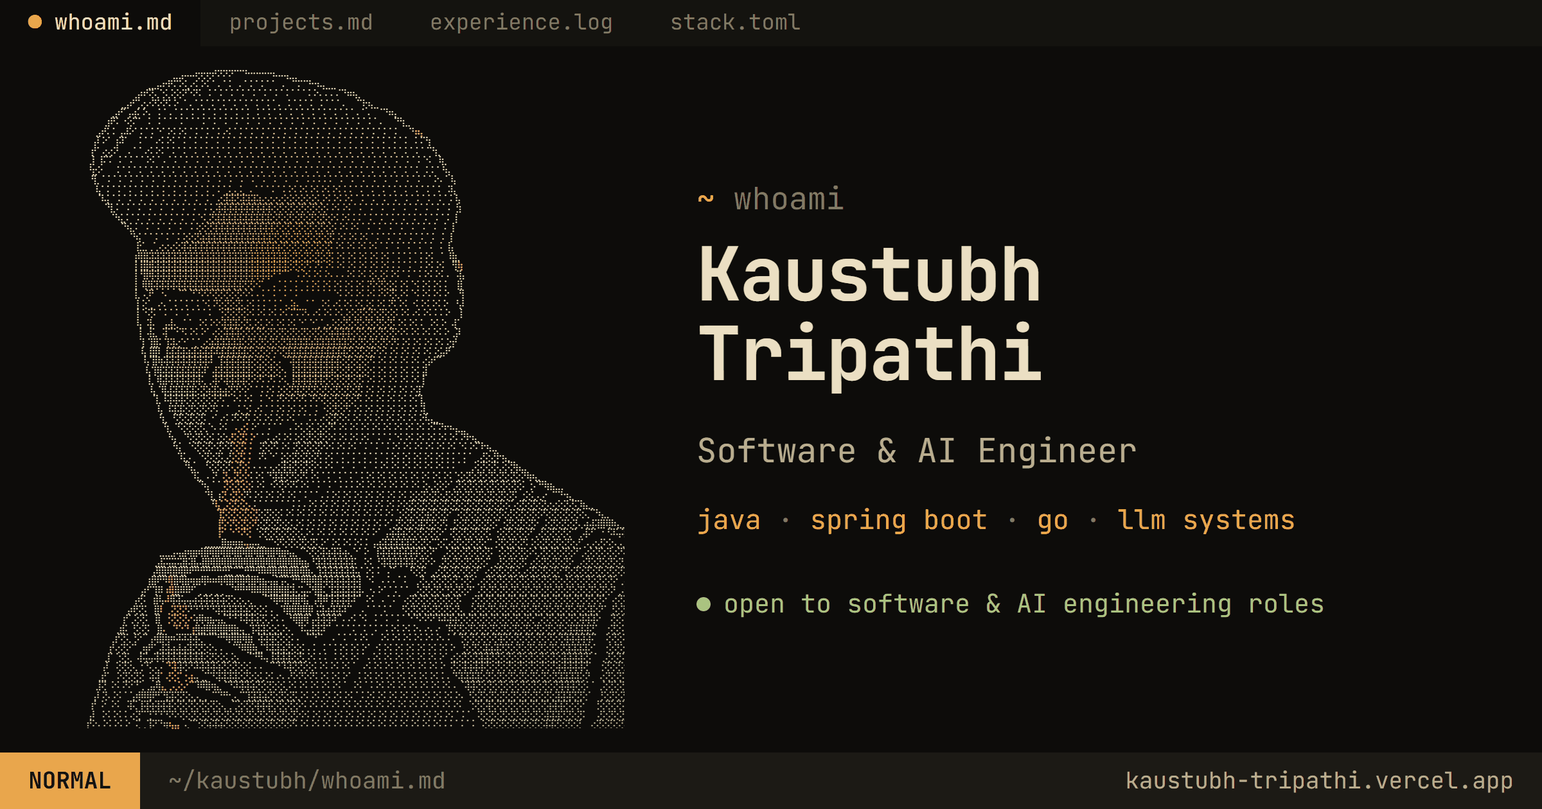
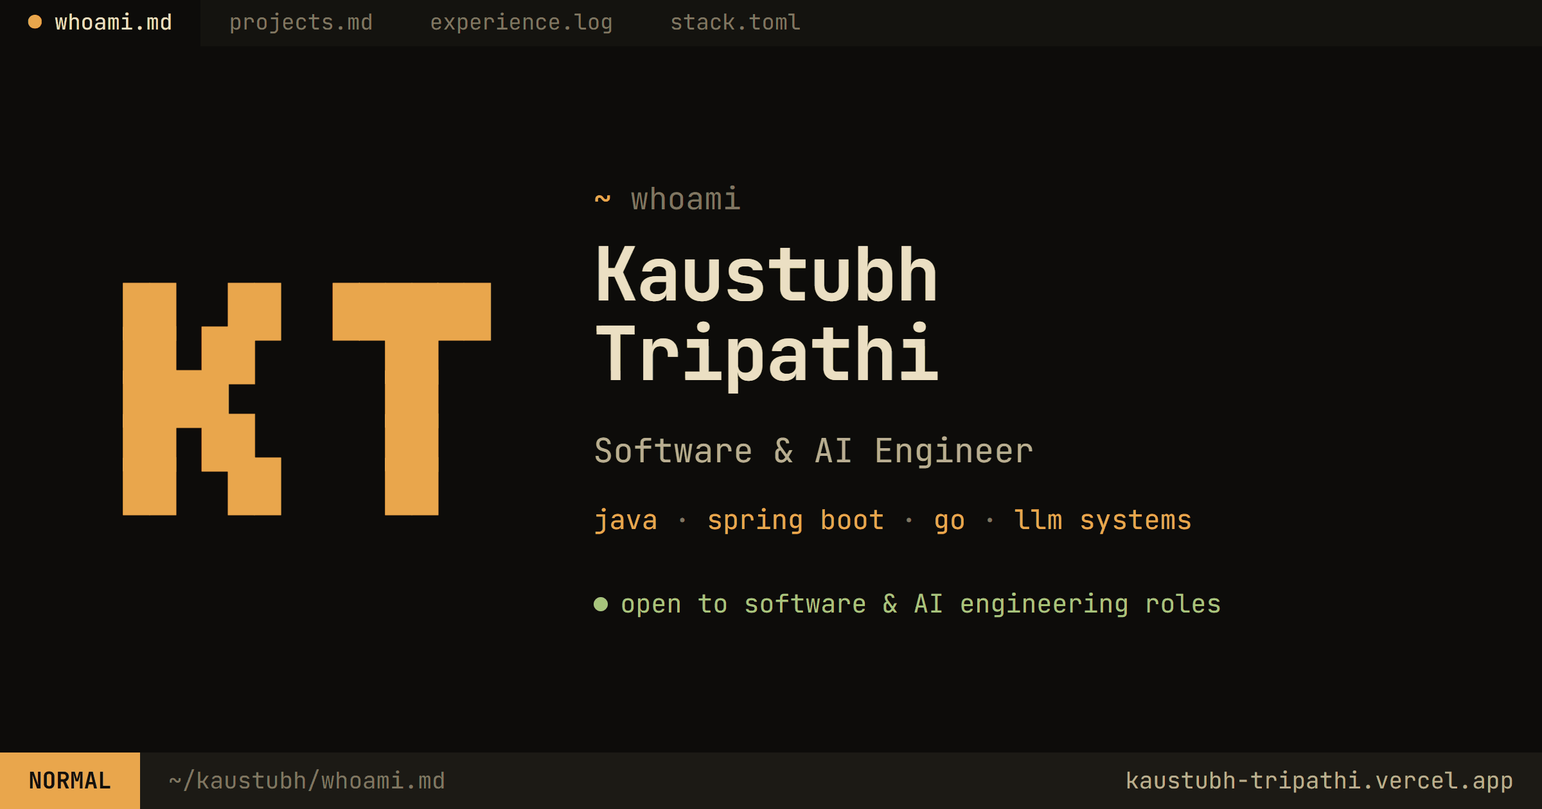
Open on the name, without a portrait
The braille portrait goes, along with its font and code. The opening is
text first: the whoami line, a larger name, the lede, what I'm building,
the stack and the two buttons. The share card shows the KT block from
fetch beside the same text.

diff --git a/index.html b/index.html
@@ -17,7 +17,7 @@
     <meta property="og:image" content="https://kaustubh-tripathi.vercel.app/og.png" />
     <meta property="og:image:width" content="2400" />
     <meta property="og:image:height" content="1260" />
-    <meta property="og:image:alt" content="A terminal window: whoami, Kaustubh Tripathi, Software & AI Engineer, beside an ASCII portrait." />
+    <meta property="og:image:alt" content="A terminal window: whoami, Kaustubh Tripathi, Software & AI Engineer, open to software and AI engineering roles." />
     <meta name="twitter:card" content="summary_large_image" />
     <meta name="theme-color" content="#0d0c0a" />
     <link rel="icon" type="image/svg+xml" href="/favicon.svg" />
@@ -31,8 +31,6 @@
     <!-- Google's JetBrains Mono subsets leave out box drawing and arrows; these come from the same
          font, so the diagrams line up. Extend `text` when a new symbol appears on the page. -->
     <link href="https://fonts.googleapis.com/css2?family=JetBrains+Mono:wght@400;700&amp;display=swap&amp;text=%E2%86%90%E2%86%92%E2%86%97%E2%86%A9%E2%94%80%E2%94%82%E2%94%8C%E2%94%90%E2%94%94%E2%94%98%E2%94%9C%E2%94%A4%E2%94%AC%E2%94%B4%E2%94%BC%E2%95%90%E2%96%88%E2%96%B2%E2%96%B8%E2%96%BA%E2%96%BC%E2%97%84%E2%97%8F%E2%9C%93" rel="stylesheet" />
-    <!-- The portrait is braille, from Noto Sans Symbols 2: every pattern the same width. -->
-    <link href="https://fonts.googleapis.com/css2?family=Noto+Sans+Symbols+2&amp;display=swap" rel="stylesheet" />
     <link rel="stylesheet" href="/styles.css" />
 
     <script>
@@ -102,79 +100,6 @@
       <main id="main">
         <!-- whoami -->
         <section class="hero" id="top" aria-labelledby="name">
-          <div class="hero-art">
-            <pre class="portrait" id="portrait" role="img" aria-label="A comic-style portrait of Kaustubh Tripathi drinking through a red straw, inked in braille dots from a photograph.">                      ⣀⣠⠤⠤⢖⢖⢖⠞⠝⠝⠝⠉⠉⠓⠒⠒⠒⠒⠦⠤⢤⣀⡀
-                ⢀⣀⡤⠖⠟⠍⠕⢅⠔⠅⠕⠅⠁⠄⠁⠅ ⠄⠁⠅⠁⠅⠁⠁ ⠄ ⠉⠍⠉⠓⠲⢤⣀⣀
-             ⢀⡴⠞⢝⢄⢑⢅⢕⢕⠝⠑⠝⠅ ⠅⠁⠅⠁⠅⠁⠅⠁⠅⠁⠅⠁⠅⠁⠅⠁⠁⠁⠅⠕⠄⠄⠄⠌⠙⠶⢦⡀
-          ⢀⣠⠞⢉⢔⠔⠝⠕⠝⠅⠕ ⠁⠄⠁⠅⠁⠅⠁⠅⠁⠅⠁⠅⠁⠅⠁⠅⠁⠄ ⠅⠁⠅⠁⠅ ⠅⠁⠁⠁⠄  ⠉⢗⢦⣀
-        ⢀⡴⠋⢠⢴⠅⠕⠄ ⠅⠁⠄⠁⠅⠁⠅⠁⠅⠁⠅⠁⠅⠁⠅⠁⠅ ⠅⠁⠅⠁⠅⠁⠅⠁⠅⠁⠅⠁⠅⠁⠅⠁⠅⠁⠄⠁⠄ ⠈⠙⠶⡄
-       ⣰⠟⠅⠐⢕⠍⠁ ⠅ ⠅⠁⠁⠁⠅⠁⠁⠁⠅⠁⠅⠁⠅⠁⠅⠁⠅⠁⠅⠁⠅⠁⠅⠁⠅⠁⠅⠁⠅⠁⠅⠁⠅⠁⠅⠁⠅⠁⠅⠁⠄  ⠙⢳⣀
-     ⣠⠞⠅⠅⢠⠼⠕⠁⠅⠁⠅⠑⠁⠕⠅⠕⠅⠁⠅⠁⠅⠁⠅⠔⠅⠁⠅⠁⠅⠁⠅⠁⠅⠁⠅⠁⠅⠁⠅⠁⠅⠁⠅⠁⠅⠁⠅⠁⠅⠁⠅⠁⠅⠁⠅  ⠙<span class="straw">⠶⡄</span>
-    ⢠⠇⠕⠁⢰⠽⠁  ⠅⠁⠁⠔⠅⠕⠅⠁⠅⠁⠅⠁⠅⠁⠅⠁⠅⠁⠅⠁⠅⠁⠅⠁⠅⠁⠅⠁⠅⠁⠅⠁⠅⠁⠅⠁⠅⠁⠅⠁⠅⠁⠅⠁⠅⠁⠅⠁⠅ ⠅⠍⢳
-    ⡞⠁⢔⢔⠝  ⠄⠁⠁⠔⠅⠕⠅⠁⠅⠁⠅⠁⠅⠁⠅⠁⠅⠁⠅⠁⠅⠁⠅⠁⠅⠁⠅⠁⠅⠁⠅⠁⠅⠁⠅⠁⠅⠁⠅⠁⠅⠁⠅⠁⠅⠁⠅⠁⠅⠁⠅⠁⠅⠁⠉⢳⡀
-   ⢀⡇⢸⠍⠅ ⠅⠁⠅⠁⠁⠕⠅⠁⠄⠁⠅⠁⠅⠁⠅⠁⠅⠁⠅⠁⠅⠁⠅⠁⠅⠁⠅⠁⠅⠁⠅⠁⠅⠁⠅⠁⠅⠁⠅⠁⠅⠁⠅⠁⠅⠁⠅⠁⠅⠁⠅⠁⠅⠁⠅⠑⠅ ⢷⡀
-   ⠘⣖⠕   ⠅⠁⠅⠁⠅⠁⠅⠁⠅⠁⠅⠁⠅⠁⠅⠁⠅⠁⠅⠁⠅⠁⠅⠁⠅⠁⠅⠁⠅⠁⠅⠁⠅⠁⠅⠁⠅⠁⠅⠁⠅⠁⠅⠁⠅⠁⠅⠁⠅⠁⠅⠁⠅⠁⠅ ⠅⠅⠁⠳⡄
-    ⢻⡀⠁⠅⠁⠅⠁⠅⠁⠅⠁⠅⠁⠅⠁⠅⠁⠅⠁⠅⠁⠅⠁⠅⠁⠅⠁⠅⠁⠅⠁⠅⠁⠅⠁⠅⠁⠅⠁⠅⠅⠅⠅⠅⠁⠅⠁⠅⠁⠅⠁⠅⠁⠅⠁⠅⠁⠅⠁⠅⠁⠁⠕⠄⠁⢧
-     ⢧⠁⠅⠁⠅⠁⠅⠁⠅⠁⠅⠁⠅⠁⠅⠁⠅⠁⠅⠁⠅⠁⠅⢁⢅⢄⢅ ⠄⠁⠁⠁⠅⠁⠅⠕⠅⠕⠅⠕⠅⠕⠅⠕⠅⠅⠅⠁⠅⠁⠅⠁⠅⠁⠅⠁⠅⠁⠅⠁⠅⠁⠅ ⠽⡄
-     ⠈⠧⡅⠁⠅⠁⠅⠁⠅⠁⠅⠁⠅⠁⠅⠁⠅⠁⠅⠁⠅⠁⢔⢽⢽⢝⢽⢽⢽⢵⢔⢔⢔⢔⢕⢕⢕⢕⢕⢕⢅⠕⠅⠕⠅⠕⠅⠁⠅⠁⠅⠁⠅⠁⠅⠁⠅⠁⠅⠁⠅⠁⠅⠁⠅⢧
-       ⠙⣇⠅⠁⠅⠁⠅⠁⠅⠁⠅⠁⠅⠁⠅⠁⠅⠁⠅⢅⢽⢽⢽⢽⢽⢽⢽⢽⢽⢽⢕⢝⢕⢝⢕⢝⢕⢝⢕⢕⠅⠕⠅⠕⠅⠁⠅⠁⠅⠁⠅⠁⠅⠁⠅⠁⠅⠁⠅⠁⠅⠁⠅⢘⡆
-        ⠈⠳⣅⠅⠁⠅⠁⠅⠁⠅⠁⠅⠁⠅⠁⠅⠑⢅⢝⢽⢽⢽⢽⢽⢽⢽⢽⢽⢽⢕⢝⢕⢝⢕⢝⢕⢝⢕⢝⢕⠕⠅⠕⠅⠅⠅⠁⠅⠁⠅⠁⠅⠁⠅⠁⠅⠁⠅⠁⠅⠁⠅⢸
-          ⠈⠳⣅⠅⠁⠅⠁⠅⠁⠅⠁⠅⠁⠅⢕⢕⢝⢽⢽⢽⢽⢽⢽⢽⢽⢽⢽⢽⢝⢕⢝⢕⢝⢕⢝⢕⢝⢕⢕⠅⠕⠅⠕⠅⠁⠅⠁⠅⠁⠅⠁⠅⠁⠅⠁⠅⠁⠅ ⠅⢸
-            ⠈⠳⡅⠁⠁⠅⠁⠅⠁⠅⢕⢕⢝⢵⢽⢽⢽⢽⢽⢽⢽⢽⢽⢽⢽⢽⢝⢕⢝⢕⢝⢕⢝⢕⢝⢕⢝⠅⠕⠅⠕⠅⠕⠅⠁⠅⠁⠅⠁⠅⠁⠅⠁⠅⠁⠅ ⠅⢸
-              ⣗⣁⢀⢁⢔⢔⢔⢕⢽⢵⢽⢽⢽⢽⢽⢽⢽⢽⢽⢽⢽⢽⢽⢽⢽⢵⢝⢕⢝⢕⢝⢕⢝⢕⢝⠅⠕⠅⠕⠅⠕⠅⠕⠅⠁⠅⠁⠅⠁⠅⠁⠅⠁⠅ ⠅⢸⡄
-             ⢰⢿⣿⢽⢽⢽⢽⢽⢽⢽⢽⢽⢽⢽⢽⢽⢽⢽⢽⢽⢽⢽⢽⢽⢽⢽⢽⢽⢕⢝⢕⢝⢕⢝⢕⢝⠅⠕⠅⠕⠅⠕⠅⠕⠅⠕⠅⠁⠅⠁⠅⠁⠅⠕⠅ ⠁⠸⣷⡀
-             ⢸⢸⣿⢿⢽⢽⢽⢽⢽⢽⢽⢽⢽⢽⢽⢽⢽⢽⢽⢽⢽⢽⢽⢽⢽⢽⢽⢽⢕⢝⢕⠝⠅⠝⠅⠕⠅⠕⠅⠕⠅⠕⠅⠕⠅⠕⠅⠅⠅⠁⠅⠁⠅⠕⠅⠕⠅ ⢻<span class="straw">⢷</span>
-             ⢸⠘⣿⢿⢽⢽⢽⢽⢽⢽⢽⢽⢽⢽⢽⢽⢽⢽⢽⢽⢽⢽⢽⢽⢽⠝⠙⠉⠁ ⠅⠕⠅⠕⠅⠕⠄⠄⠄⠕⠅⠕⠅⢕⢅⢕⠅⠕⠅⠁⠅⠁⠅⠕⠅⠕⠅⠄ ⢽⡄
-             ⢸ ⢿⢿⢽⢽⢽⢽⢽⢽⢽⢽⢽⢽⢽⢽⢽⢽⢽⢽⢝⢝⠕⠍  ⠄⠁⠅⠁⠅⠁⠅⠕⠅⠕⠅⠕⠅⠕⠅⠕⠅⠝⠕⢝⢕⢕⠅⠕⠅⠑⠅⠕⠅⠕⠅⠅ ⢸⡇
-             ⢸⡀⢌⠟ ⠐⠄  ⠉⠁⠙⠙⠝⠝⢝⢝⢝⢕⢝⠕⠕⠅⠄⠅⠁⠅⠁⠅⠁⠅⠁⠁⠁⠁⠁⠁⠑⠅⠕⠅⠕⠅⠕⠅⠕⠕⢝⢅⠕⠅⠑⠅⠕⠅⠕⠅⠕  ⢻
-              ⡇⢕⢁ ⠔⠄⠁⠅⠁⠅⠁⠅⠑⠅⠝⢕⢝⢕⢝⢅⠕⠅⠅⠅⠁⠅⠁⢄⢵⠄ ⠁⠁ ⠕⠅⠔⠅⠕⠅⠕⢅⢕⠅⠕⠅⠝⠅⠕⠅⠐⠅⠕⠅⠕⠅⠕ ⠘⡼
-              ⡇⠑⢝⠅⠁⠅⠁⠅⠁⠅⠁⠁⠁⠅ ⢑⢝⢕⢝⢕⠕⠅⠕⠅⠕⠅⠕⠅⠍⠍⠝⠄⠔⠅⠕⠅⠕⢅⢕⢕⢝⢕⢝⢕⢝⢕⢕⠅⠕⠅⠔⠅⠕⠅⠅⠅⠕  ⡇
-              ⢧ ⢽⠄ ⢠⢼⢄ ⠁⠁ ⠕⠅⠕⠕⢽⢽⢽⢕⢝⢅⢕⢅⠕⠅⠕⠅⠕⠅⠑⠁⠑⢁⢁⢄⢕⢕⢝⢕⢝⢕⢝⢕⢝⢕⢝⠅⠕⠅⠕⠅⠅ ⠕⠅⠕ ⢼⠁
-              ⢸ ⢼⣅ ⢽⠉⠑⠙⠅⠕⠅⠕⠁⢔⢕⢽⢽⢽⢕⢝⢕⢝⢕⢝⢕⢝⢕⢝⢕⢝⢕⢝⢕⢝⢵⢽⢽⢽⢕⢝⢕⢝⢕⢝⢕⢝⠕⠕⠅⠕⠅⠕⠅⠕⠅⠕⢀⡽
-              ⠈⡇⢹⣿⠅⢹⢽⢔⠑⠁⢁⢁⢔⢵⢽⢽⢽⢽⢽⢕⢝⢕⢝⢕⢝⢕⢝⢽⢽⢽⢽⢵⢽⢽⢽⢽⢽⢽⢝⢕⢝⢕⢝⢕⢝⠕⠝⠅⠕⠅⠕⠅⠕⠅⠕⠅⢕⡞
-               ⢧⢸⣿⠇⢸⢽⢽⢽⢵⢽⢵⢽⢽⠽⢽⢽⢽⢽⢽⢝⢕⢝⢕⠝⠕⢝⢽⢽⢽⢽⢽⢽⢽⢽⢽⢽⢽⢝⢕⢝⢕⢝⠕⠕⠅⠕⠅⠕⠅⠕⠅⠕⠅⢕⣥⠟
-               ⠸⡌⣿⢷⢽⢽⢽⢽⢽⢽⢽⢽⠽ ⢹⢽⢽⢽⢽⢽⢕⢝⢕⢕⢅⠄⠉⢽⢽⢽⢽⢽⢽⢽⢽⢽⢕⢝⢕⢝⢕⠝⠅⠕⠅⠕⠅⠕⠅⠕⠅⢔⡵⠋⠁
-                ⢧⢹⢿⢽⢽⢽⢽⢽⢽⢽⠽⠁⢼⢽⢽⢽⢽⢽⢽⢕⢝⢕⢝⢕⠕⠄⢸⢽⢽⢽⢽⢽⢽⢽⢝⢕⢝⢕⢝⢕⠕⠅⠕⠅⠕⠅⠕⠅⠕⠅⣽
-                ⢸⡀⢿⣽⢽⢽⢽⢽⢽⢽⢅⢀⢽⠝⢽⢽⢽⢽⢝⠕⠝⠅⠝⠅⠕⢅⢸⢽⢽⢽⢽⢽⢝⢕⢝⢕⢝⢕⢝⠅⠕⠅⠕⠅⠕⠅⠕⠅⠕⠅⡇
-                 ⢧⠈⢿⢼⢽⢽⢽⢽⢕⢝⢵⢽⢵⢴⢝⠝⠕⠕⠁⠁⠅⠕⠅⢕⢕⢝⢽⢝⢝⢝⢕⢝⢕⢝⢕⢝⢕⢝⠅⠕⠅⠕⠅⠕⠅⠕⠅⠕⢽⠁
-                 ⠈⣇⠸⢽⢽⢽⢝⢝⢕⢝⢕⢝⠝⠍⠁⠕⠅⠕⠅ ⠅⠑⠅⠝⠕⠝⠕⠝⠅⠝⠕⢝⢕⢝⢕⢝⢕⠝⠅⠕⠅⠕⠅⠕⠅⠕⠅⠕⠍⣇
-                  ⠸⡄⠸⢽⢽⢕⢝⢕⢝⠕⠝⠅⠁⠁⢀⢅⢑⠅⠔⠅⠁⠅⠕⠅⠕⠅⠕⠅⠁⠅⠐⢕⢝⢕⠝⠅⠕⠅⠕⠅⠕⠅⠕⠅⠕⠅⠕⠅⢽⡀
-                   ⢳⡀⠘⢝⢕⢝⢕⢝⠅⠐⠁⠔⠅⠝⠕⠝⠅⠕⠅⠕⠅⠕⠅⠕⠅⠁⠁⠅⠅⠔⢕⢝⠕⠕⠅⠕⠅⠕⠅⠕⠅⠕⠅⠕⠅⠕⠅⠕⠧⣄⡀
-                    ⢳⡀⠙⢕⢝⢕⢝⢅⠑⠄⠕⠅ <span class="straw">⢄⢔⠅</span>⠕⠁⠁⠅⠁⠁ ⠄⠕⢅⢕⢅⢕⢕⠝⠅⠕⠅⠕⠅⠕⠅⠕⠅⠕⠅⠕⠅⠕⠅⠕⠅⠕⠍⠝⠖⠦⣄⣀
-                     ⠳⡄ ⠙⢕⢝⢕⢕⠅⢕⢕<span class="straw">⢜⢕⢝⠅⠕</span>⠁⢁⢅⢔⠅⠕⠅⢕⢕⢝⢕⢝⢕⠕⠅⠕⠅⠕⠅⠕⠅⠁⠅⠁⠅⠑⠅⠕⠅⠕⠅⠕⠅⠕⠅⠕⠅⠝⠗⢦⡀
-                      ⠳⡅ ⠑⢝⢕⢝⠕⢝⠕⢝<span class="straw">⢕⢝⠅⠅</span> ⢝⢕⠝⠅⠕⠅⢝⢕⢝⢕⢝⠕⠕⠅⠕⠅⠕⠅⠁⠅⠁⠅⠁⠅⠕⠅⠕⠅⠕⠅⠕⠅⠕⠅⠕⠅⠑⠅⠕⠍⠗⢦⣀
-                       ⠹⣅⠄ ⠑⢝⢕⢝⢅⢜<span class="straw">⢕⢝⠅⠅</span> ⠝⠅⠑⠁⢕⢕⢝⢕⢝⢕⠝⠅⠕⠅⠁⠅⠁⠅⠁⠅⠁⠅⠁⠅⠕⠅⠕⠅⠕⠅⠕⠅⠕⠅⠅⠅⠁⠅⠁⢀⢜⢕⢜⠗⢦⡀
-                        ⠘⢧⡁ ⠘⢕⢝⢕⢝<span class="straw">⢅⢝⢕⠅</span>⠄⠄⠄⢄⢔⢽⢵⢝⢕⢝⢕⠕⠅⠕⠅⠁⠅⠁⠅⠁⠅⠁⠅⠕⠅⠕⠅⠕⠅⠕⠅⠕⠅⠕⠅⠅⠅⠁⠁⢀⢕⢝⢕⢝⢅⢕⢝⢷⣄⡀
-                          ⠹⣅ ⠄⠝ <span class="straw">⢝⢄⢝⢕⠕</span>⠅⠕⠅⠙⢽⢽⢝⠝⢕⠝⠅⠕⠅⠁⠅⠁⠅⠁⠅⠁⠅⠕⠅⠕⠅⠕⠅⠕⠅⠕⠅⠕⠅⠕⠅⠕⠅⢑⢕⢝⢕⢝⢕⢝⢕⢝⢕⢝⢕⠝⢷⢦⡀
-                           ⠈⠳⡄⠁⠁<span class="straw">⢝⢕⢝⢕⢕</span>⠅⠕⠅⠐⠕⢝⠕⠝⠅⠕⠅⠁⠅⠁⠅⠁⠅⠅⠅⠕⠅⠕⠅⠕⠅⠕⠅⠕⠅⠕⠅⢕⢄⢕⢕⠕⢁⢝⢕⢝⢕⢝⢕⢝⢕⢝⢕⢝⢕⠅⢐⠌⠛⢷⣦⣀⡀
-                             ⠙⣇⢰<span class="straw">⢝⢐⢝⢕</span>⠝⠅⠕⠅⠕⠅⠕⠅⠕⠅⠁⠅⠁⠁⠄⠅⠕⠅⠕⠅⠕⠅⠕⠅⠕⠅⠕⠅⠕⠅⢕⢕⢝⢕⢝⢕⢜⢕⢝⢕⢝⢕⢝⢕⢝⢕⢝⢕⢝⠅⢐⢕⢅⢄⠔ ⠉⠙⠲⣄
-                              ⠘<span class="straw">⢧⢁⢕⢝⢕⢕⢄</span>⠅⠁⠁⠁⠁⠁⠁⠅⠅⠄⠕⠅⠕⠅⠕⠅⠕⠅⠕⠅⠕⠅⠕⠅⠕⠅⠕⢕⢝⢕⢝⢕⢝⢕⢝⢕⢝⢕⢝⢕⢝⢕⢝⢕⢝⢕⠍⢔⢝⢕⢝⢕⢝⢔⢔⢕⢝⢜⢍⢷⣄⡀
-                               <span class="straw">⠈⣟⢕⢝⢕⢝⢕⢝</span>⢕⢝⢕⢕⠅⠕⠅⠕⠅⠕⠅⠕⠅⠕⠅⠕⠅⠕⠅⠕⠅⠕⠅⠕⠅⢑⢕⢝⢕⢝⢵⢝⢕⢝⠕⠉⢕⢝⢕⢝⢕⢝⢕⢝⢕⢜⢕⢝⢕⢝⢕⠝⢕⢝⢕⢝⢕⢝⢕⢄⠉⠳⣄⡀
-                                <span class="straw">⣟⠕⠝⢕⢝⢕⠝</span>⢕⢝⢕⢝⢕⢕⢅⠕⠅⠕⠅⠕⠅⠕⠅⠕⠅⠕⠅⠕⠅⠕⠅⠕⢁⢝⢕⢝⢕⢽⢝⢝⢕⠝⠅⢘⢕⢝⢕⢝⢕⢝⢕⠍⢐⢝⢕⢝⢕⢝⠕⢀⢕⢝⢕⢝⢕⢝⢄⢴⢼⢽⣿⢿⠷⣄⡀
-                                <span class="straw">⡗⠁⠑⠑⠝⢕</span> ⢑⢝⢕⢝⢕⢝⢕⢕⢅⠕⠅⠕⠅⠕⠅⠕⠅⠕⠅⠕⠅⠕⠁⢠⢵⢽⢵⢝⢕⢝⢕⢝⢕⠕⠁⢝⢕⢝⢕⢝⢕⢝⠅⢐⢕⢝⢕⢝⢕⠝⢁⢜⢕⢝⢕⢝⢕⠉⢀⢼⠝⠁⠐⠘⠽⢥⢽⢶⢤⡀
-                             ⣀⣀⣀⣿⣶⢶⣶<span class="straw">⢤</span>⣤⢤⣀⠉⠑⠝⢕⢝⢕⢝⢕⢝⢅⠕⠁⠕⠅⠕⠅⠕⠅⠅⢠⢴⢽⢽⢽⢽⢽⢝⢕⢝⢕⠉⢕⢍⢔⢝⢕⢝⢕⢝⢕⠉⢐⢝⢕⢝⢕⠝⠅⢕⢕⢝⢕⢝⢕⢝⢕⠜⢁⢄⢔⢜⠕⢕⢄⢄⠉⠙⠹⢷⣄
-                   ⣀⣀⣠⢤⣴⢶⣶⢾⣿⢿⣿⢿⣿⢿⣿⢿⣿⢿⣿⢿⣿⢿⣶⢦⣄⠈⠑⢝⢕⢽⢵⢽⢽⢴⢄⠑⠁⠕ ⢸⢽⢽⢽⢽⢽⢽⢽⢝⢕⠝⠁⢀⢕⢝⢕⢝⢕⢝⢕⢝⠅⢐⢕⢝⢕⢝⢕⠕⢅⢝⢕⢝⢕⢝⢕⠝⢁⢔⢕⢝⢕⢝⢔⠝⠕⢉⢐⢝⢄⢄⢑
-                  ⣠⣯⢭⣭⢭⣿⢽⣧⢼⣿⢿⣿⢿⣿⢿⣿⢿⣿⢿⣿⢿⣿⢿⣿⢿⣿⢷⣦⠘⢽⢽⢽⢽⢽⢽⢽⠅ ⠕⠅⠘⢽⢽⢽⢽⢽⢽⢕⢝⠕⠕⢀⢝⢕⢝⢕⢝⢕⢝⢕⠍⢀⢜⢕⢝⢕⢝⠅⢔⢕⢝⢕⢝⢕⢝⠕⢀⢔⢝⢕⢝⢕⢝⢕⢝⢔⠝⢑⢝⢕⢕⢕
-                 ⢠⢿⣿⢿⣿⢿⡿⠟⠛⠛⠛⠛⠛⢛⣋⢉⣉⢛⠛⠻⠿⠿⣿⢿⣿⢿⣿⢿⣷⢄⢹⢽⢽⢽⢽⢽⢽⢥⠁⠕⠅⠅ ⠌⠁  ⠘⢕⢝⠅⢀⢔⢝⢕⢝⠕⢝⢕⠝⠁⢔⢕⢝⢕⢝⢕⢅⢔⢝⢕⢝⢕⢝⠕⢙⢕⢝⢕⢝⢕⢝⢕⢝⢕⢝⢅⢜⢕⢝⢕⢝⢕
-                ⢰⣿⠟⠻<span class="straw">⢿</span>⣿⢿⣷⢶⣶⢿⠷⠶⢿⢿⣿⢿⣿⢿⣿⢷⣦⢤⣬⢩⢍⢙⠛⠿⣿⢿⣿⢽⢽⢽⢽⢽⢽⢽ ⠑⠅ ⠄⠅⠄⠁⠅ ⢀⢝⢄⢝⢕⢝⢕⢝⢑⢝⠕⢁⢔⢝⢕⢝⢕⢝⢕⢝⢕⢝⢕⢝⢕⢝⢕⢜⢕⢝⢕⢝⢕⢝⢕⢝⠕⢀⢔⢝⢕⢝⢕⢝⢕
-               ⡴⠋⢹⠿<span class="straw">⠰⢿</span>⣿⠿⠿⠋⢀⢀⢀⢀⢀ ⠈⠛⠛⠛⠿⠿⣿⢿⣿⢿⣿⢽⢌⢥⠬⢻⣿⢅⢹⢽⢽⢽⢽⢽⠄⠐⠄⠕⠁⠁⠅⠁⠁⢀⢕⢝⢕⢝⢕⢙⢕⢝⢕⠝⠁⢜⢕⢝⢕⢝⢕⢝⢕⢝⢕⢝⢕⢝⢕⢝⢕⢝⢕⢝⢕⢝⢕⢝⢕⠝⢀⢜⢕⢝⢕⢝⢕⢝⠕
-             ⢠⢞⠅ ⣾⢧<span class="straw">⠼</span>⢿⢽⢥⢤⢴⢵⢽⢵⢽⢵⢝⢕⢔⢄⢄  ⠈⠙⢿⠿⣿⢿⣿⢿⡅⢠⢿⠿⢹⢽⢽⢽⠽⠉ ⠕⠅ ⠄⠁⠅⠁⢔⢝⢕⢝⢕⢝⢕⢝⢕⢝⠅ ⢐⢝⢕⢝⢕⢝⢕⢝⢕⢝⢕⢝⢕⢝⢕⢝⢕⢝⢕⢝⢕⢝⢕⢝⠕ ⢔⢝⢕⢝⢕⢝⢕⢝⢕
-            ⡴⢟⢝⠅ ⣿<span class="straw">⠇⢀⢝⢝⠝</span>⠝⠙⠙⠙⠙⢽⢽⢽⢽⢽⢵⢝⢕⠕⠅⠄ ⠹⣿⢿⣿⢿⡿⢨⢽⢴⢽⢽⠽⠉  ⠄⠁⠁⠁⠅⠁ ⠘⢕⢝⢕⢝⢕⢝⢕⢝⢕⢝⢄⢀⢕⢝⢕⢝⢕⢝⢕⢝⢕⢝⢕⢝⢕⢝⢕⢝⢕⢝⢕⢝⢕⢽⢕⠝⠁⢘⢕⢝⢕⢝⢕⢝⢕⢝⢕
-           ⡞⢁⢕⢝⠅ ⣿ <span class="straw">⢐⢝⢕⢝⠔</span>⢵⢿⢶⣦⢤⣌⠙⠙⠹⢽⢽⢵⢝⢅⠕⠅⠄⠘⢿⣿⢿⢡⢼⢽⢽⠽⠉⠄⠔⠅⠑⠅ ⠅⠁⠅⠁⠅⠁⠑⠙⠕⠝⠝⠹⠽⢽⢵⢝⢕⢝⢕⢝⢕⢝⢕⢝⢕⢝⢕⢝⢕⢉⢕⢝⢕⢝⢕⢝⢕⢽⢽⢽⠕  ⢝⢕⢝⢕⢝⢕⢝⢕⢝⢕
-         ⢀⣾⠅⢘⢕⢝⠅ ⣿<span class="straw">⠄</span> <span class="straw">⠙⠑⠙⢰</span>⢿⣾⢿⣿⢿⣿⢿⣷⢤ ⢹⢽⢽⢕⢕⢅⠕⠄ ⠹⢥⢼⢽⠽⠉ ⠁⠁⠁⠅⠁⠅⠁⠅⠁⠅⠕⠅⠕⠅⠕⠄⠔⠄⠔ ⠹⢝⢝⢕⢝⢕⢝⢕⢝⢕⢝⢕⢝⢕⢝⢕⢝⢕⢝⢕⢝⢕⢽⢽⢽⢽⢝⠁ ⢐⢝⢕⢝⢕⢝⢕⢝⢕⢝⢕
-        ⢀⡞⢝⢅⢘⠕⠉⢠⢾⣿⢷⠶⠽⠽⢽⢽⢍⠉⠉⠙⠛⢿⢿⣿⢿⣷ ⢽⢽⢽⢝⢕⢕⠅⠄ ⠉⠙⠉  ⠄⠁⠅⠁⠅⠕⠅⠁ ⠕⠅⠕⠅⠕⠅⠕⠅⠕⠅⠕⠄⠅⠁⢙⢕⢝⢕⢝⢕⢝⢽⢝⢕⢝⢕⢝⢕⢝⢕⢝⢕⢝⢽⢽⢽⢽⢽⠍  ⢕⢝⢕⢝⢕⢝⢕⢝⢕⢝⢕
-        ⡞⢔⢝⠕⠉⢀⢶⠟⢁⢼⢽⢴⢼⢴⢽⢝⢝⢕⠕⠄⠄ ⠈⠙⠿⣿⢷⣈⠹⢽⢽⢵⢝⢕⢕⠅⠄⠅ ⠅⠁⠅⠕⠅⠕⠅⠕⠁⠐⠅⠕⠅⠕⠅⠕⠅⠕⠅⠕⠅⠕⠅⠕ ⢘⢕⢝⢕⢽⢵⢽⢝⢝⢕⢝⢕⢝⢕⢝⢕⢝⢕⢝⢽⢽⢽⢽⢕⠁ ⢐⢕⢝⢕⢝⢕⢝⢕⢝⢕⢜⢕
-       ⣸⠁⢑⢝⢅ ⢼⢭⢤⢽⢽⢽⢽⢽⢽⢽⢽⢽⢕⢝⢕⢕⢅⢕⠄ ⠈⠙⠻⢤⢸⢽⢽⢽⢕⢝⢅⠕⠅⠅⠅ ⠅⠕⠅⠕⠅⠁⠄⠕⠅⠕⠅⠕⠅⠕⠅⠕⠅⠕⠅⠕⠁⢔⢕⢝⢕⢝⢽⢽⢝⢝⢕⢝⢕⢝⢕⢝⢕⢝⢕⢝⢕⢽⢽⢽⢽⢝⠅⠁⢀⢜⢕⢝⢕⢝⢕⢝⢕⢝⢕⢝⢕
-      ⢠⠇ ⢕⢝⢕⢄⢐⠙⢅⢄⠄<span class="straw">⠙⢽</span>⢽⢝⠝⠽⢽⢽⢽⢵⢝⢕⢝⢕⢕⠅⠄⠄ ⠉⠙⠹⢽⢝⢝⢕⢕⠅⠕⠅⠕⠅⠕⠅⠁ ⠔⠅⠕⠅⠕⠅⠕⠅⠕⠅⠕⠅⠕⠅⠕ ⢝⢕⢽⢵⢽⢽⢝⢕⢝⢕⢝⢕⢝⢕⢝⢕⢝⢕⢝⢵⢽⢽⢽⢽⢝⠁ ⢐⢝⢕⢝⢕⢝⢕⢝⢕⢝⢕⢝⢕
-     ⢀⣞⠁ ⠕⢝⢕⢝⢕ ⢵⢽<span class="straw">⠁⢜⢕⠍⢐⢴</span>⢤⢀⡉⠙⢽⢽⢽⢽⢕⢝⢕⢕⢅⠕⠅⠔⠄⠜⠕⠝⠕⠝⠅⠕⠅⠕⠅⠕⠁ ⠅⠕⠅⠕⠅⠕⠅⠕⠅⠕⠅⠕⠅⠕⠅⠅⠄⠙⢽⢽⢽⢽⢕⢝⢕⢝⢕⢝⢕⢝⢕⢝⢕⢝⢕⢝⢽⢽⢽⢽⢕⠝  ⢔⢝⢕⢝⢕⢝⢕⢝⢕⢝⢕⢝⢕
-     ⣸⢝ ⠕⠅⠝⠕⠙⢁⢀⣤⢿<span class="straw">⣄⢀⢄⢕⠔⠉</span>⠹⠿⣿⢶⣄⠈⠙⠽⢽⢽⢵⢝⢕⢝⢕⢕⢅⠕⠅⠕⠅⠕⠅⠕⠅⠕⠅⠁ ⠕⠅⠁⠅⠕⠅⠕⠅⠕⠅⠕⠅⠕⠅⠕⠅⠕⠅⠄⠈⢽⢽⢝⢕⢝⢕⢝⢕⢝⢕⢝⢕⢝⢕⢝⢕⢝⢽⢽⢽⢝⢕⠅⠁⢀⢕⢝⢕⢝⢕⢝⢕⢝⢕⢝⢕⢝⢕
-    ⢠⠇⢝⠄⠕⠅⠁⢡⢾⠿⢿⠟⠋⢻⢽⢝⢝⢕⢄⢄⢀ ⠉⠙⠛⢂⢄⠉⢹⢽⢽⢵⢝⢕⢝⢕⢝⢅⠕⠅⠕⠅⠕⠅⠕⠅⠕⠅⠁⠅⠕⠅⠕⠅⠕⠅⠕⠅⠕⠅⠕⠅⠕⠅⠕⠅⠕⠄⠘⢕⢝⢕⢝⢕⢝⢕⢝⢕⢝⢕⢝⢕⢝⢕⢽⢽⢽⢝⢝⢕⠁ ⢘⢕⢝⢕⢝⢕⢝⢕⢝⢕⢝⢕⢝⢕
-    ⡞ ⠕ ⠕⠅ ⢽⢍⢸⢽⢵⢽⢽⢽⢕⢝⢕⢝⢕⢝⢕⢝⢕⢄⢀⢉⢕⢝⢝⢽⢽⢽⢕⢝⢕⢝⢕⠕⠅⠕⠅⠕⠅⠕⠅⠕⠅⠕⠅⠕⠅⠕⠅⠕⠅⠕⠅⠕⠅⠕⠅⠕⠅⠕⠅⠕⠅ ⢑⢝⢕⢽⢕⢝⢕⢝⢕⢝⢕⢝⢕⢝⢵⢽⢽⢝⢕⢝⠕  ⢘⢕⢝⢕⢝⢕⢝⢕⢝⢕⢝⢕⢝⢕
-   ⢠⠇ ⠕⠅⠕⠅⠅⢔⢝⠉⢙⠙⠙⠙⠝⠕⢝⢕⢝⢕⢝⢕⢝⢕⢝⢕⢝⢕⢝⢕⢝⢕⢝⢕⢝⢕⢝⠕⠕⠅⠕⠅⠕⠅⠕⠅⠕⠅⠕⠅⠕⠅⠕⠅⠕⠅⠕⠅⠕⠅⠕⠅⠕⠅⠕⠅⠁⠅⠁ ⢝⢕⢝⢕⢝⢕⢝⢕⢝⢕⢝⢕⢽⢽⢽⢝⢝⢕⢝⠅  ⢜⢕⢝⢕⢝⢕⢝⢕⢝⢕⢝⢕⢝⢕
-   ⡞⠕⠄⠕⠅⠕⠅⠕ ⢍⢀⢹⠝⠙⢶<span class="straw">⢦⣤</span> ⢄⠉⢑⢝⢵⢽⢵⢝⢕⢝⢕⢝⢕⢝⢕⢝⢕⢝⢕⠝⠅⠕⠅⠕⠅⠕⠅⠕⠅⠕⠅⠕⠅⠕⠅⠕⠅⠕⠅⠕⠅⠕⠅⠕⠅⠕⠅⠅⠅⠁⠅⠁⠅ ⢕⢝⢕⢝⢕⢝⢕⢝⢕⢝⢕⢽⢽⢝⢕⢝⢕⢝  ⢔⢝⢕⢝⢕⢝⢕⢝⢕⢝⢕⢝⠅⠝⠅</pre>
-            <p class="portrait-note">inked in braille, from a photo</p>
-          </div>
-
           <div class="hero-text">
             <p class="prompt"><span class="ps">~</span> whoami</p>
             <h1 id="name" tabindex="-1">Kaustubh Tripathi</h1>

diff --git a/styles.css b/styles.css
@@ -273,62 +273,7 @@ kbd {
 /* whoami */
 
 .hero {
-  display: grid;
-  grid-template-columns: minmax(0, 360px) minmax(0, 1fr);
-  gap: 48px;
-  align-items: center;
-  padding: 56px 0 24px;
-}
-
-.hero-art {
-  container-type: inline-size;
-}
-
-/* 110 braille characters across. Noto Sans Symbols 2 gives every pattern a
-   0.7em advance, its dots 0.26em apart within a character and 0.25em apart
-   down it; this spacing and line height carry that pitch across characters
-   and lines, so the dots sit on one even grid. */
-.portrait {
-  --mx: 40%;
-  --my: 30%;
-  font-family: "Noto Sans Symbols 2", monospace;
-  font-size: calc(100cqi / 57.2);
-  line-height: 0.99;
-  letter-spacing: -0.18em;
-  white-space: pre;
-  user-select: none;
-  background: radial-gradient(circle at var(--mx) var(--my), var(--accent) 0, var(--fg) 34%, var(--fg) 58%, var(--fg-2) 100%);
-  -webkit-background-clip: text;
-  background-clip: text;
-  color: transparent;
-}
-
-/* Printed top to bottom, a couple of rows at a time, once the page is in view. */
-.js .site:not(.is-in) .portrait {
-  clip-path: inset(0 0 100% 0);
-}
-
-.js .site.is-in .portrait {
-  clip-path: inset(0);
-  transition: clip-path 1.4s steps(34) 0.1s;
-}
-
-@media (hover: none) {
-  .hover-only {
-    display: none;
-  }
-}
-
-/* The straw keeps its colour. */
-.portrait .straw {
-  color: var(--red);
-}
-
-.portrait-note {
-  margin-top: 0.8rem;
-  font-size: 11px;
-  color: var(--faint);
-  text-align: center;
+  padding: clamp(56px, 11vh, 112px) 0 24px;
 }
 
 .prompt {
@@ -345,16 +290,17 @@ kbd {
 
 .hero h1 {
   margin-top: 0.15rem;
-  font-size: clamp(28px, 4.2vw, 38px);
-  line-height: 1.15;
+  font-size: clamp(34px, 6.4vw, 60px);
+  line-height: 1.08;
   font-weight: 700;
   letter-spacing: -0.02em;
   color: var(--fg);
 }
 
 .lede {
-  max-width: 48ch;
-  margin-top: 1rem;
+  max-width: 54ch;
+  margin-top: 1.25rem;
+  font-size: 15px;
   color: var(--fg-2);
 }
 
@@ -1481,13 +1427,10 @@ kbd {
     font-size: 12px;
   }
   .hero {
-    grid-template-columns: minmax(0, 1fr);
-    gap: 28px;
-    padding-top: 32px;
+    padding-top: 40px;
   }
-  .hero-art {
-    width: min(100%, 320px);
-    margin: 0 auto;
+  .lede {
+    font-size: 14px;
   }
   .block {
     margin-top: 60px;

diff --git a/tools/og.html b/tools/og.html
@@ -42,13 +42,15 @@
       }
       .og-main {
         display: grid;
-        grid-template-columns: 430px minmax(0, 1fr);
-        gap: 56px;
+        grid-template-columns: auto minmax(0, 1fr);
+        gap: 80px;
         align-items: center;
-        padding: 0 64px 0 56px;
+        padding: 0 72px 0 96px;
       }
-      .og-art {
-        container-type: inline-size;
+      .og-logo {
+        font-size: 34px;
+        line-height: 1;
+        color: var(--accent);
       }
       .og-text .prompt {
         font-size: 24px;
@@ -108,7 +110,11 @@
     <div id="card">
       <div class="og-tabs"><span class="is-on">whoami.md</span><span>projects.md</span><span>experience.log</span><span>stack.toml</span></div>
       <div class="og-main">
-        <div class="og-art"><pre class="portrait" id="portrait"></pre></div>
+        <pre class="og-logo" aria-hidden="true">██  ██  ██████
+██ ██     ██
+████      ██
+██ ██     ██
+██  ██    ██</pre>
         <div class="og-text">
           <p class="prompt"><span class="ps">~</span> whoami</p>
           <h1>Kaustubh<br />Tripathi</h1>
@@ -121,12 +127,8 @@
         <span class="sb-mode">NORMAL</span><span class="dim">~/kaustubh/whoami.md</span><span class="og-url">kaustubh-tripathi.vercel.app</span>
       </div>
     </div>
-    <script type="module">
-      // The portrait, taken from the page itself.
-      const html = await (await fetch("/index.html")).text();
-      const doc = new DOMParser().parseFromString(html, "text/html");
-      document.getElementById("portrait").innerHTML = doc.getElementById("portrait").innerHTML;
-      document.body.dataset.ready = "1";
+    <script>
+      document.fonts.ready.then(() => (document.body.dataset.ready = "1"));
     </script>
   </body>
 </html>

diff --git a/js/main.js b/js/main.js
@@ -1,6 +1,5 @@
 import { initTheme } from "./theme.js";
 import { runIntro } from "./intro.js";
-import { initPortrait } from "./portrait.js";
 import { initProjects } from "./projects.js";
 import { initCommands } from "./commands.js";
 import { initMail } from "./mail.js";
@@ -8,7 +7,6 @@ import { initActivity } from "./activity.js";
 
 document.documentElement.classList.add("js");
 initTheme();
-initPortrait();
 initProjects();
 initCommands();
 initMail();
@@ -25,8 +23,6 @@ const span = [years && `${years} year${years > 1 ? "s" : ""}`, rest && `${rest} 
 const uptime = document.getElementById("uptime");
 if (uptime && months > 0) uptime.textContent = `${span} at TCS`;
 
-const site = document.getElementById("site");
 runIntro((fromIntro) => {
-  site.classList.add("is-in");
   if (fromIntro) document.getElementById("name").focus({ preventScroll: true });
 });

diff --git a/js/commands.js b/js/commands.js
@@ -246,7 +246,7 @@ export function initCommands() {
     const needle = smart ? pattern : pattern.toLowerCase();
     const walker = document.createTreeWalker(reader?.isOpen() ? reader.root() : main, NodeFilter.SHOW_TEXT, {
       acceptNode: (node) =>
-        node.nodeValue.trim() && !node.parentElement.closest("#portrait, .fetch-logo, [aria-hidden='true'], script, style")
+        node.nodeValue.trim() && !node.parentElement.closest(".fetch-logo, [aria-hidden='true'], script, style")
           ? NodeFilter.FILTER_ACCEPT
           : NodeFilter.FILTER_REJECT,
     });

diff --git a/README.md b/README.md
@@ -8,8 +8,6 @@ my repositories (Tollgate, DeepResearch and Loop Detector) until you press Enter
   left for you to find.
 - **Live:** `git log --recent` reads the latest commit in each of my most recently pushed repositories from
   GitHub's public API, cached for half an hour. The page ships with a snapshot, used when the API is unavailable.
-- **Portrait:** a photograph traced into flat comic tones and ink lines, then set in braille, whose 2×4 dots per
-  character make an even grid in Noto Sans Symbols 2.
 - **Essays:** one per project, in [`essays/`](essays/), read in a vim-style buffer over the page. Essay links and
   `:read` open one; `:q` brings you back.
 - **Mail:** sent through Web3Forms with a public access key, with the visitor's own mail app as the fallback.
